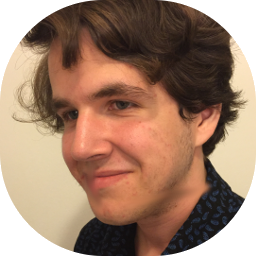
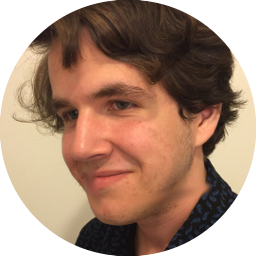
Profile image was replaced so the edges are smoother

diff --git a/index.html b/index.html
@@ -76,7 +76,7 @@
                     <div class="intro-text">
                         <h1 class="name">Hays Stanford</h1>
                         <hr class="star-light">
-                        <span class="skills">Web Developer - Product Manager - Marketing Aficionado</span>
+                        <span class="skills">Web Developer - Product Creator - Tech Aficionado</span>
                     </div>
                 </div>
             </div>
